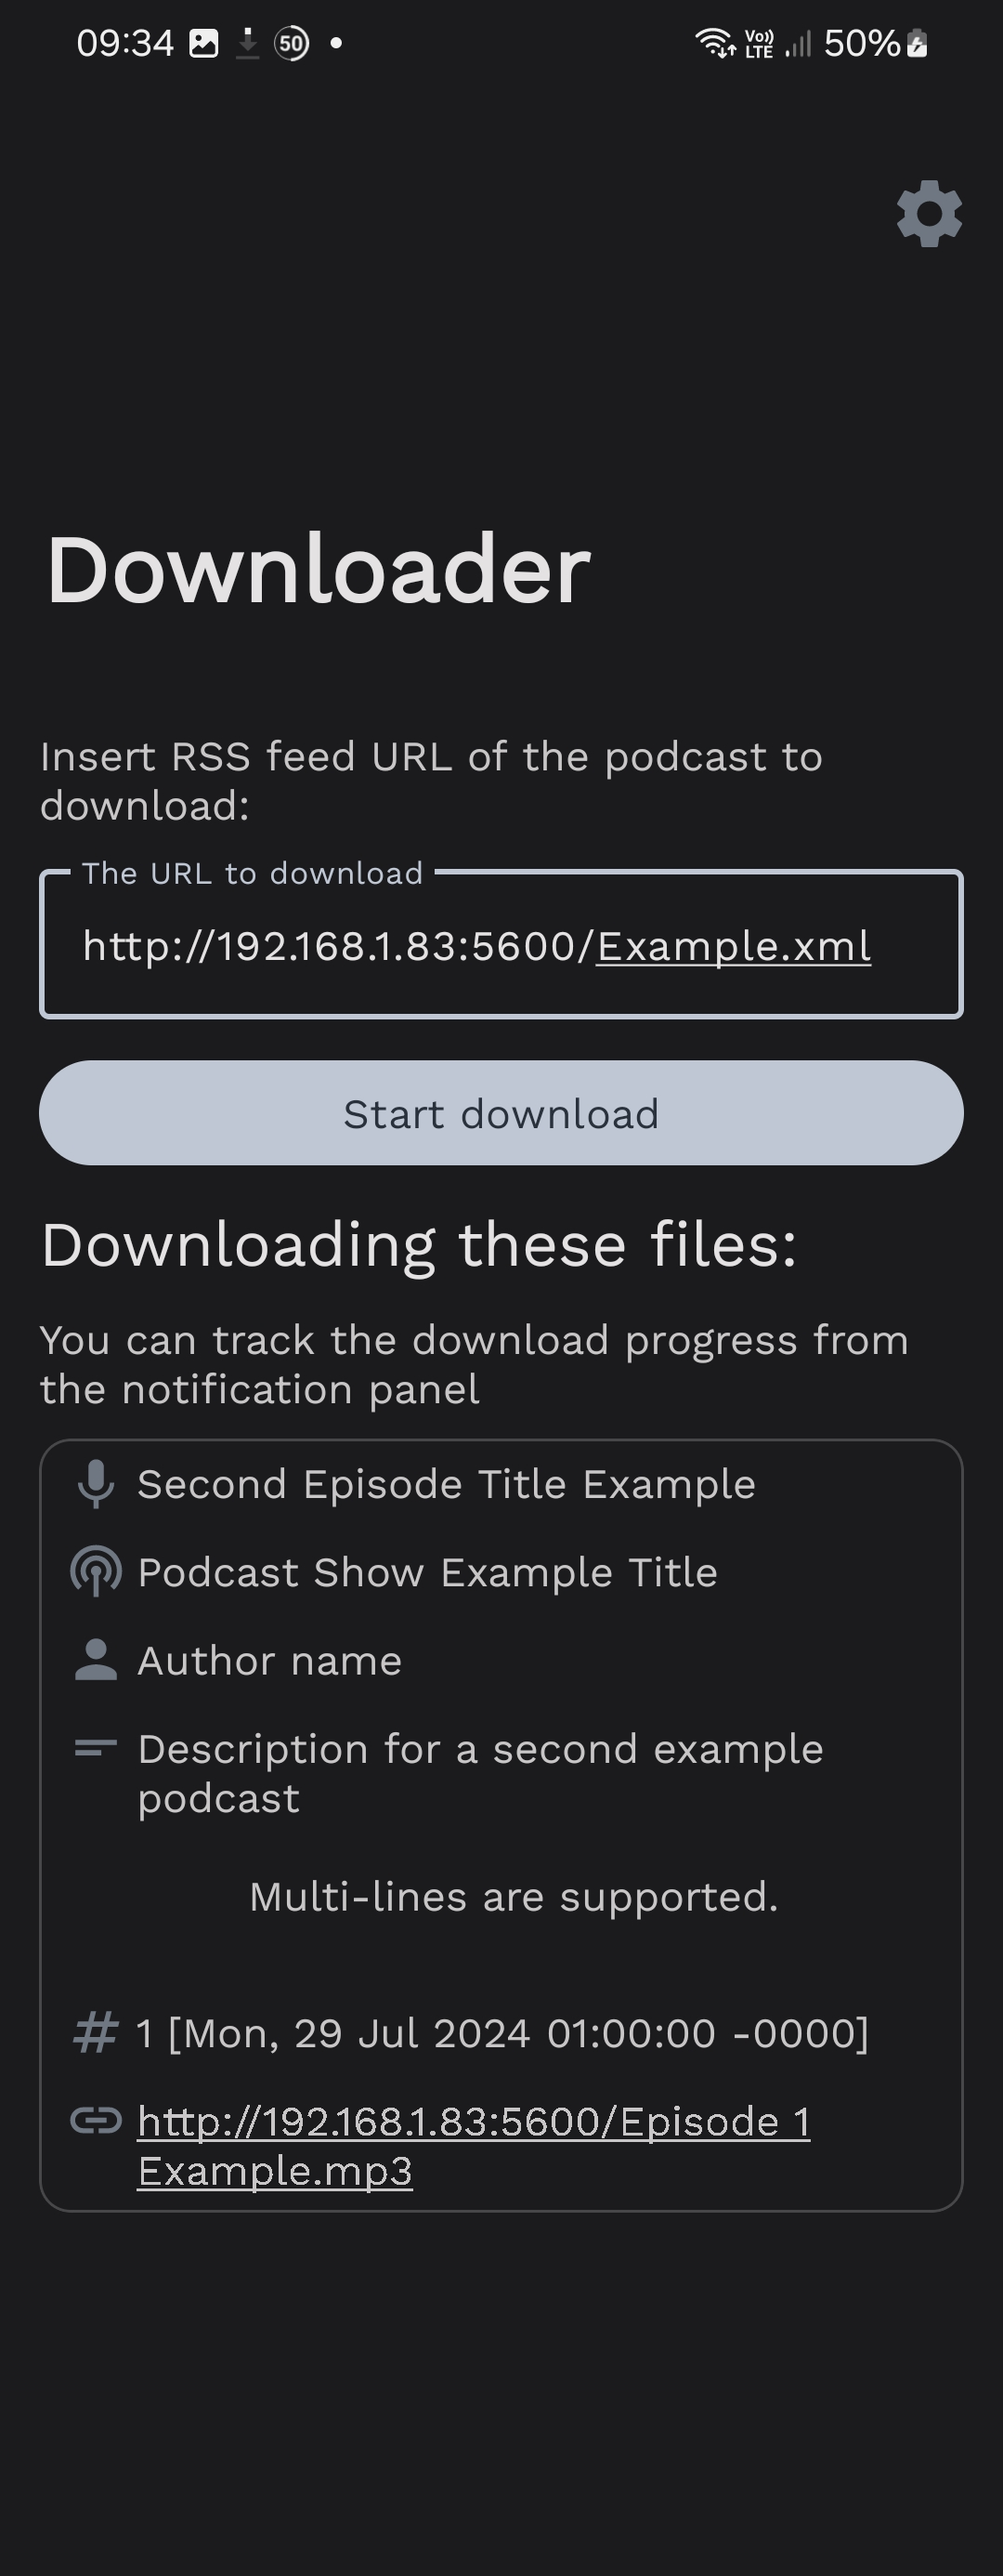
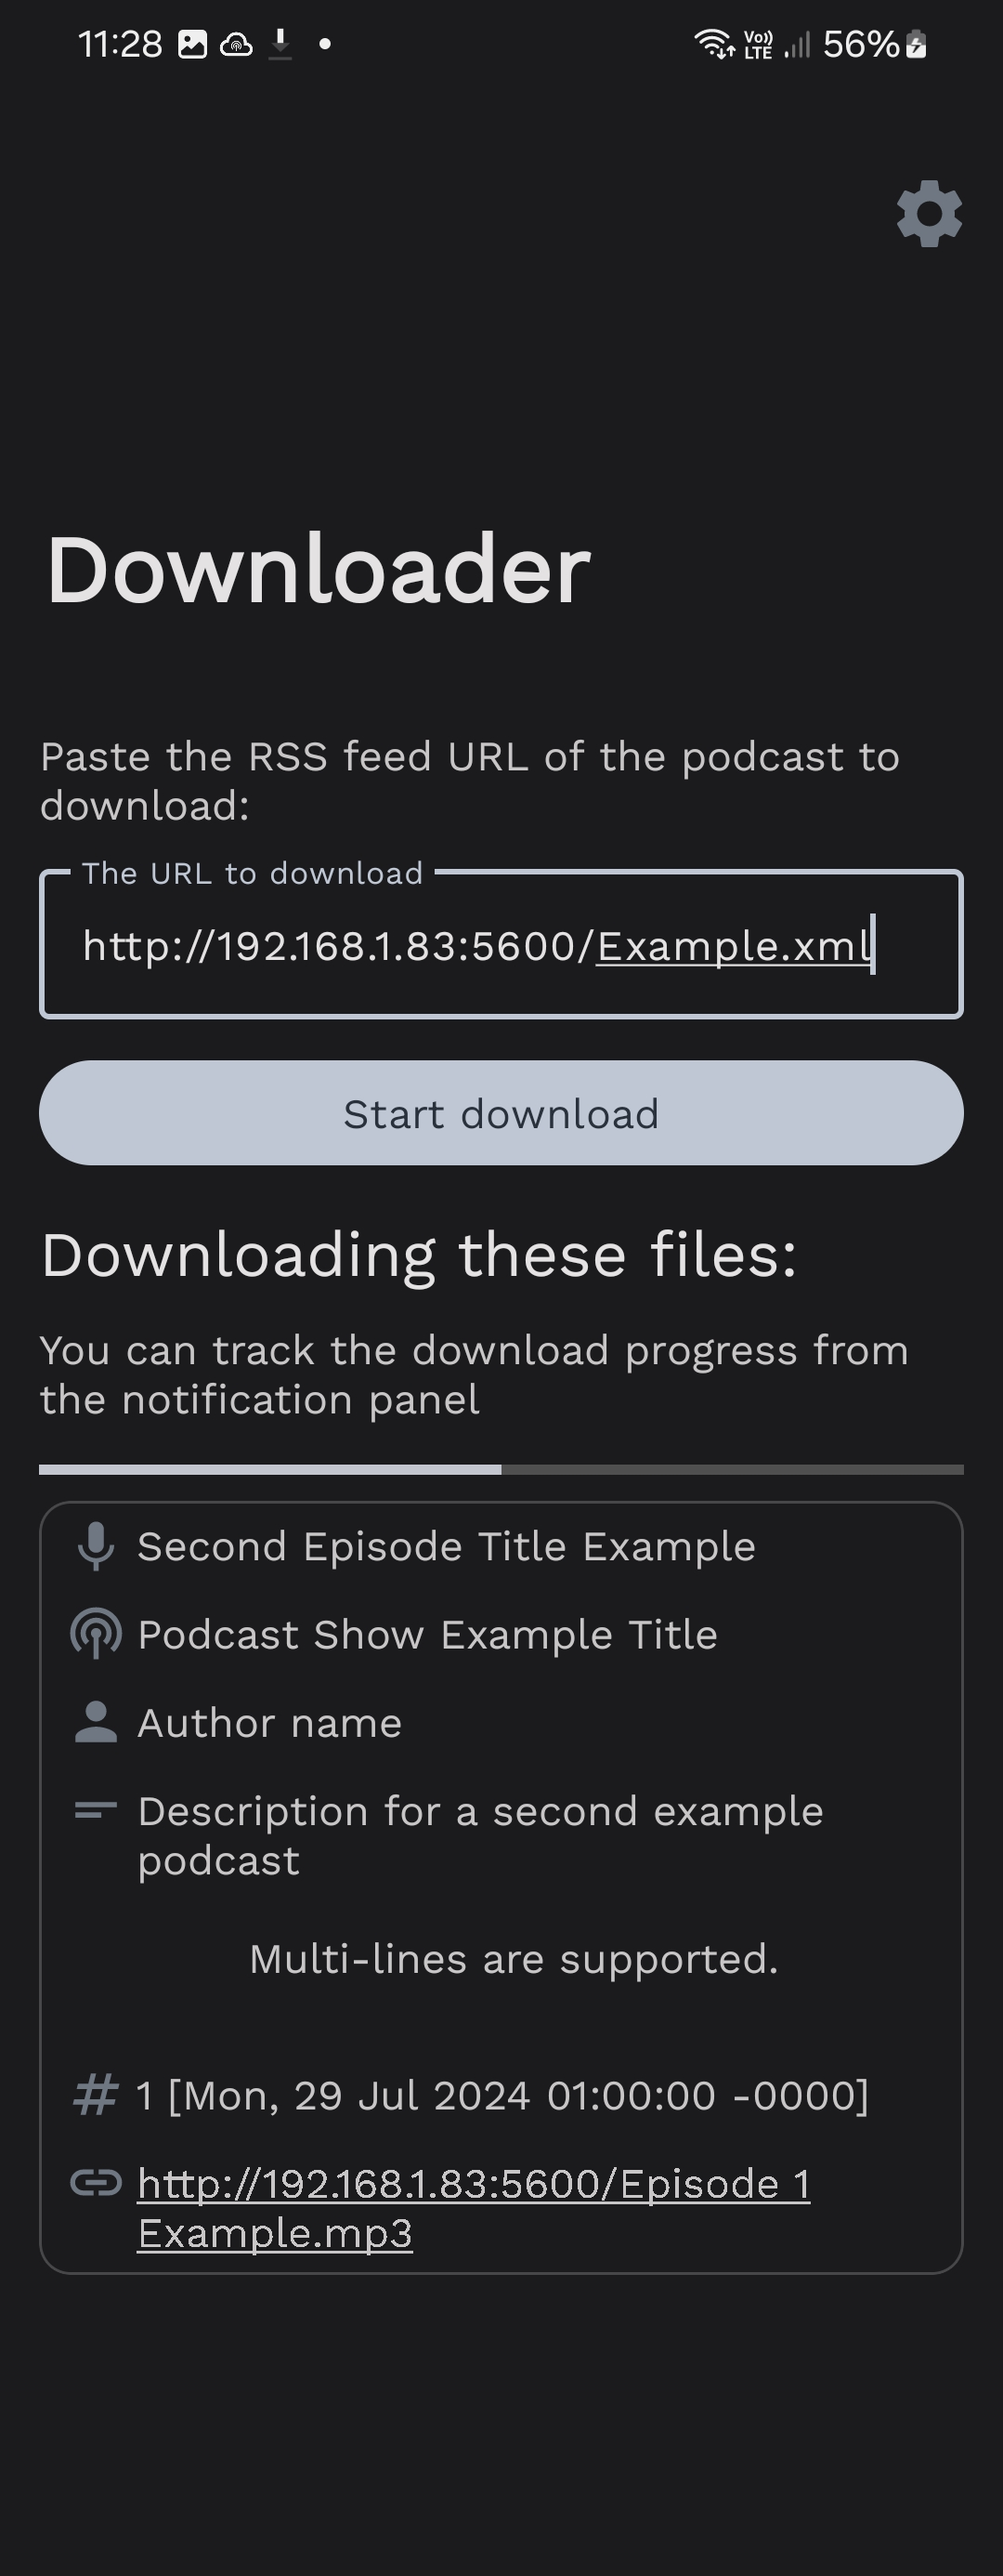
Download progress bar, save downloaded XML & Bug Fixes
- Download progress bar: a progress bar that shows the number of downloads done is now added in the downloader UI
- Save downloaded XML: it's now possible to save in the "PodcastDownloader" directory the fetched XML from the source
- Bug fixes:
  * Fixed a bug that caused the app to crash if language was changed
  * Fixed a bug that caused the app to crash if it wasn't possible to start a Foreground Service

diff --git a/app/src/main/java/dinoosauro/podcastdownloader/MainActivity.java b/app/src/main/java/dinoosauro/podcastdownloader/MainActivity.java
@@ -38,6 +38,7 @@ import com.google.android.material.dialog.MaterialAlertDialogBuilder;
 import com.google.android.material.snackbar.BaseTransientBottomBar;
 import com.google.android.material.snackbar.Snackbar;
 import com.google.android.material.textfield.TextInputEditText;
+import com.google.gson.Gson;
 import com.mpatric.mp3agic.ID3v2;
 import com.mpatric.mp3agic.Mp3File;
 
@@ -49,16 +50,23 @@ import org.w3c.dom.NodeList;
 import org.xml.sax.SAXException;
 
 import java.io.File;
+import java.io.FileOutputStream;
 import java.io.IOException;
+import java.io.StringWriter;
 import java.net.MalformedURLException;
 import java.net.URLDecoder;
 import java.util.ArrayList;
+import java.util.Date;
 import java.util.List;
 import java.util.Map;
 
 import javax.xml.parsers.DocumentBuilder;
 import javax.xml.parsers.DocumentBuilderFactory;
 import javax.xml.parsers.ParserConfigurationException;
+import javax.xml.transform.Transformer;
+import javax.xml.transform.TransformerFactory;
+import javax.xml.transform.dom.DOMSource;
+import javax.xml.transform.stream.StreamResult;
 
 import dinoosauro.podcastdownloader.PodcastClasses.GetAlbumArt;
 import dinoosauro.podcastdownloader.PodcastClasses.PodcastDownloadInformation;
@@ -67,6 +75,7 @@ import dinoosauro.podcastdownloader.PodcastClasses.ShowItems;
 import dinoosauro.podcastdownloader.UIHelper.CheckUpdates;
 import dinoosauro.podcastdownloader.UIHelper.ColorMenuIcons;
 import dinoosauro.podcastdownloader.UIHelper.DownloadUIManager;
+import dinoosauro.podcastdownloader.UIHelper.PodcastProgress;
 
 public class MainActivity extends AppCompatActivity {
     /**
@@ -111,6 +120,7 @@ public class MainActivity extends AppCompatActivity {
         CollapsingToolbarLayout collapsingToolbar = findViewById(R.id.collapsing_toolbar);
         collapsingToolbar.setTitle(getResources().getString(R.string.downloader));
         DownloadUIManager.setLinearLayout(findViewById(R.id.downloadItemsContainer)); // Set that the default LinearLayout where the metadata information cards will be appended is the one in MainActivity
+        PodcastProgress.setProgressBar(findViewById(R.id.progressBar)); // Set what progress bar should be used when an episode is added in the queue (or has finished downloading)
         if (Build.VERSION.SDK_INT <= 28) {
             ActivityCompat.requestPermissions(this,
                     new String[]{Manifest.permission.WRITE_EXTERNAL_STORAGE}, 0);
@@ -144,9 +154,29 @@ public class MainActivity extends AppCompatActivity {
                     DocumentBuilderFactory factory = DocumentBuilderFactory.newInstance();
                     DocumentBuilder builder = factory.newDocumentBuilder();
                     Document document = builder.parse(finalUrl);
+                    SharedPreferences preferences = getSharedPreferences(getPackageName(), Context.MODE_PRIVATE);
+                    if (preferences.getBoolean("WriteOutputXML", true)) {
+                        try {
+                            // Create folder and file
+                            File folder = new File(Environment.getExternalStoragePublicDirectory(Environment.DIRECTORY_DOWNLOADS), "PodcastDownloader");
+                            folder.mkdir();
+                            String getPodcastTitle = nullPlaceholder(document.getElementsByTagName("title").item(0));
+                            File xmlFile = new File(folder, PodcastDownloader.DownloadQueue.nameSanitizer(getPodcastTitle != null ? getPodcastTitle : finalUrl) + " [" + PodcastDownloader.DownloadQueue.nameSanitizer((new Date()).toString()) + "].xml");
+                            xmlFile.createNewFile();
+                            FileOutputStream fos = new FileOutputStream(xmlFile);
+                            // Convert the Document to a String using the TransformerFactory. This might be rewritten later, since it would be more convenient to directly fetch the XML as a string and write it.
+                            TransformerFactory transformerFactory = TransformerFactory.newInstance();
+                            Transformer transformer = transformerFactory.newTransformer();
+                            StringWriter stringWriter = new StringWriter();
+                            transformer.transform(new DOMSource(document), new StreamResult(stringWriter));
+                            fos.write(stringWriter.toString().getBytes());
+                            fos.close();
+                        } catch (Exception ex) {
+                            Snackbar.make(view, R.string.failed_xml_writing, BaseTransientBottomBar.LENGTH_LONG).show();
+                        }
+                    }
                     document.getDocumentElement().normalize();
                     NodeList items = document.getElementsByTagName("item");
-                    SharedPreferences preferences = getSharedPreferences(getPackageName(), Context.MODE_PRIVATE);
                     boolean shouldUseSuggestedTrack = preferences.getBoolean("UseSuggestedTrack", true); // If false, the suggested track from the RSS feed will be ignored
                     int trackFallbackType = preferences.getInt("SuggestedTrackFallback", 0); // What the application should do if there isn't a suggested track from the RSS feed
                     int trackFallbackStartFrom = preferences.getInt("SuggestedTrackStartFrom", 1); // From what number the numeration should tart
@@ -215,6 +245,10 @@ public class MainActivity extends AppCompatActivity {
         if (Build.VERSION.SDK_INT >= Build.VERSION_CODES.TIRAMISU) registerReceiver(receiver, new IntentFilter(DownloadManager.ACTION_DOWNLOAD_COMPLETE), Context.RECEIVER_EXPORTED); else registerReceiver(receiver, new IntentFilter(DownloadManager.ACTION_DOWNLOAD_COMPLETE));
         // Get if the user has shared an URL with the application, and start the RSS fetching
         for (Map.Entry<Long, PodcastDownloadInformation> item : PodcastDownloader.DownloadQueue.currentOperations.entrySet()) DownloadUIManager.addPodcastConversion(item.getValue(), item.getKey()); // Restore the metadata cards of the currently downloaded items. This might happen if the user changes theme.
+        if (PodcastDownloader.DownloadQueue.currentOperations.size() > 0) {
+            findViewById(R.id.downloadItemsContainer).setVisibility(View.VISIBLE); // Make the container visible if there are new elements
+            ((ProgressBar) findViewById(R.id.progressBar)).setMax(PodcastDownloader.DownloadQueue.getInfoLength());
+        }
         CheckUpdates.checkAndDisplay(MainActivity.this); // Look if there are updates available
     }
     @Override
@@ -245,7 +279,7 @@ public class MainActivity extends AppCompatActivity {
                         // And start its download. *THIS MUST BE DONE IN THE MAIN THREAD*: otherwise, the Thread won't be the same which initialized the View, causing in an Exception
                         runOnUiThread(PodcastDownloader.DownloadQueue::startDownload);
                         String realPath = getRealPathFromURI(context, ((DownloadManager) context.getSystemService(Context.DOWNLOAD_SERVICE)).getUriForDownloadedFile(downloadId));
-                        if (realPath == null) {
+                        if (realPath == null && currentPodcastInformation != null) {
                             File file = new File(Environment.getExternalStoragePublicDirectory(Environment.DIRECTORY_DOWNLOADS), currentPodcastInformation.downloadPath);
                             if (file.exists()) realPath = file.getAbsolutePath();
                         }
@@ -285,7 +319,6 @@ public class MainActivity extends AppCompatActivity {
                                     metadataFile.renameTo(file); // And move the metadata file to the location
                                     MediaScannerConnection.scanFile(MainActivity.this, new String[]{file.getAbsolutePath()}, new String[]{"audio/mpeg"}, null); // Scan the new file
                                 } catch (Exception e) {
-                                    e.printStackTrace();
                                     runOnUiThread(() -> {
                                         Snackbar.make(findViewById(R.id.downloadItemsContainer), getResources().getString(R.string.failed_metadata_add) + " " + currentPodcastInformation.items.get(0).title, BaseTransientBottomBar.LENGTH_LONG).show();
                                     });
@@ -315,11 +348,18 @@ public class MainActivity extends AppCompatActivity {
                                     Thread.sleep(500);
                                     runOnUiThread(() -> {
                                         PodcastDownloader.DownloadQueue.disableServiceIfNecessary(); // Check if the Foreground Service should be disabled (and disable it if necessary)
-                                        for (ViewGroup view : destinationLayout) ((ViewGroup) view.getParent()).removeView(view);
+                                        for (ViewGroup view : destinationLayout) {
+                                            if (view == null) continue;
+                                            ViewGroup parentElement = ((ViewGroup) view.getParent());
+                                            if (parentElement != null) parentElement.removeView(view);
+                                        }
+                                        PodcastProgress.updateValue(1);
                                     });
                                 } catch (InterruptedException e) {
                                     Log.e("Failed removal", String.valueOf(downloadId));
                                 }
+                            } else {
+                                runOnUiThread(() -> PodcastProgress.updateValue(1));
                             }
 
                     }).start();

diff --git a/app/src/main/java/dinoosauro/podcastdownloader/PodcastDownloader.java b/app/src/main/java/dinoosauro/podcastdownloader/PodcastDownloader.java
@@ -25,6 +25,7 @@ import dinoosauro.podcastdownloader.PodcastClasses.PodcastInformation;
 import dinoosauro.podcastdownloader.PodcastClasses.ShowItems;
 import dinoosauro.podcastdownloader.UIHelper.DownloadUIManager;
 import dinoosauro.podcastdownloader.ForegroundService.ForegroundNotificationHelper;
+import dinoosauro.podcastdownloader.UIHelper.PodcastProgress;
 
 public class PodcastDownloader extends Application {
     @Override
@@ -93,11 +94,19 @@ public class PodcastDownloader extends Application {
         }
 
         /**
+         * Get the size of the remaining items to download
+         * @return an int, with the number of items that are in the queue.
+         */
+        public static int getInfoLength() {
+            return downloadPodcastInfoList.size();
+        }
+
+        /**
          * Sanitize the name so that it's valid on every OS
          * @param str the string to sanitize
          * @return the sanitized string
          */
-        private static String nameSanitizer(String str) {
+        public static String nameSanitizer(String str) {
             return str.replace("<", "‹").replace(">", "›").replace(":", "∶").replace("\"", "″").replace("/", "∕").replace("\\", "∖").replace("|", "¦").replace("?", "¿").replace("*", "");
         }
 
@@ -105,10 +114,14 @@ public class PodcastDownloader extends Application {
          * If no elements are in the queue, the Foreground service will be disabled.
          */
         public static void disableServiceIfNecessary() {
-            if (currentOperations.size() == 0 && downloadPodcastInfoList.size() == 0 && ForegroundNotificationHelper.isServiceRunning(appContext)) {
+            try {
+                if (currentOperations.size() == 0 && downloadPodcastInfoList.size() == 0 && ForegroundNotificationHelper.isServiceRunning(appContext)) {
                 Intent stopIntent = new Intent(appContext, ForegroundService.class);
                 stopIntent.setAction("STOP_FOREGROUND_SERVICE");
                 appContext.startService(stopIntent);
+            }
+            } catch (Exception ex) {
+                Toast.makeText(appContext, "Failed to stop Foreground Service", Toast.LENGTH_LONG).show();
             }
         }
 
@@ -119,9 +132,13 @@ public class PodcastDownloader extends Application {
         public static void startDownload() {
             PodcastInformation podcastInformation = shift();
             if (podcastInformation != null) {
-                if (!ForegroundNotificationHelper.isServiceRunning(appContext)) {
-                    Intent serviceIntent = new Intent(appContext, ForegroundService.class);
-                    appContext.startService(serviceIntent);
+                try {
+                    if (!ForegroundNotificationHelper.isServiceRunning(appContext)) {
+                        Intent serviceIntent = new Intent(appContext, ForegroundService.class);
+                        appContext.startService(serviceIntent);
+                    }
+                } catch (Exception ex) {
+                    Toast.makeText(appContext, "Failed to start Foreground Service. Download experience might be unreliable.", Toast.LENGTH_LONG).show();
                 }
                 ShowItems currentPodcastInformation = podcastInformation.items.get(0);
                 DownloadManager.Request request = new DownloadManager.Request(Uri.parse(currentPodcastInformation.url));
@@ -145,7 +162,6 @@ public class PodcastDownloader extends Application {
                     fos.close();
                 } catch (IOException e) {
                     Toast.makeText(appContext, appContext.getResources().getString(R.string.failed_json_creation) + " " + currentPodcastInformation.title, Toast.LENGTH_LONG).show();
-                    e.printStackTrace();
                 }
                 String subPath = "PodcastDownloader/" + nameSanitizer(podcastInformation.title) + "/" + nameSanitizer(currentPodcastInformation.title + fileExtension);
                 request.setDestinationInExternalPublicDir(Environment.DIRECTORY_DOWNLOADS, subPath);
@@ -162,6 +178,7 @@ public class PodcastDownloader extends Application {
          */
         public static void enqueueItem(PodcastInformation podcastInformation) {
             downloadPodcastInfoList.add(podcastInformation);
+            PodcastProgress.updateMaximum(1);
             if (currentOperations.size() < appContext.getSharedPreferences(appContext.getPackageName(), Context.MODE_PRIVATE).getInt("ConcurrentDownloads", 3)) startDownload();
         }
     }

diff --git a/app/src/main/java/dinoosauro/podcastdownloader/UIHelper/PodcastProgress.java b/app/src/main/java/dinoosauro/podcastdownloader/UIHelper/PodcastProgress.java
@@ -1,0 +1,35 @@
+package dinoosauro.podcastdownloader.UIHelper;
+
+import android.os.Build;
+import android.widget.ProgressBar;
+
+/**
+ * Update the Progress Bar for the download progress
+ */
+public class PodcastProgress {
+    private static ProgressBar progressBar;
+
+    /**
+     * Set the ProgressBar that will track the downloaded podcasts
+     * @param progress the ProgressBar
+     */
+    public static void setProgressBar(ProgressBar progress) {
+        progressBar = progress;
+    }
+
+    /**
+     * Update the maximum of the ProgressBar
+     * @param addItems the number to add to the current maximum
+     */
+    public static void updateMaximum(int addItems) {
+        progressBar.setMax(progressBar.getMax() + addItems);
+    }
+
+    /**
+     * Update the value of the ProgressBar
+     * @param addValue the value to add to the current value
+     */
+    public static void updateValue(int addValue) {
+        if (Build.VERSION.SDK_INT >= Build.VERSION_CODES.N) progressBar.setProgress(progressBar.getProgress() + addValue, true); else progressBar.setProgress(progressBar.getProgress() + addValue);
+    }
+}

diff --git a/app/src/main/java/dinoosauro/podcastdownloader/Settings.java b/app/src/main/java/dinoosauro/podcastdownloader/Settings.java
@@ -70,6 +70,7 @@ public class Settings extends AppCompatActivity {
             put((View) findViewById(R.id.jpegQuality), new updateFields("JpegQuality", SettingsSave.SAVE_AS_INT, "80"));
             put((View) findViewById(R.id.mp3Metadata), new updateFields("MP3Metadata", SettingsSave.SAVE_AS_BOOLEAN, "1"));
             put((View) findViewById(R.id.htmlParsing), new updateFields("DecodeHTML", SettingsSave.SAVE_AS_BOOLEAN, "1"));
+            put((View) findViewById(R.id.saveXmlFile), new updateFields("WriteOutputXML", SettingsSave.SAVE_AS_BOOLEAN, "1"));
         }};
         SharedPreferences preferences = this.getSharedPreferences(getPackageName(), Context.MODE_PRIVATE);
         for (Map.Entry<View, updateFields> entry : updateValue.entrySet()) {

diff --git a/app/src/main/java/dinoosauro/podcastdownloader/ForegroundService/ForegroundNotificationHelper.java b/app/src/main/java/dinoosauro/podcastdownloader/ForegroundService/ForegroundNotificationHelper.java
@@ -49,6 +49,7 @@ public class ForegroundNotificationHelper {
         PendingIntent pendingIntent = PendingIntent.getActivity(context, 0, notificationIntent, PendingIntent.FLAG_IMMUTABLE);
 
         return new NotificationCompat.Builder(context, CHANNEL_ID)
+                .setSmallIcon(R.drawable.monochrome_icon)
                 .setContentTitle(context.getResources().getString(R.string.downloading_podcasts))
                 .setContentText(context.getResources().getString(R.string.downloading_podcasts_desc))
                 .setContentIntent(pendingIntent)

diff --git a/app/src/main/java/dinoosauro/podcastdownloader/UIHelper/DownloadUIManager.java b/app/src/main/java/dinoosauro/podcastdownloader/UIHelper/DownloadUIManager.java
@@ -122,6 +122,7 @@ public class DownloadUIManager {
      * @param operationId the long that identifies this download
      */
     public static void addPodcastConversion(PodcastInformation downloader, long operationId) {
+        linearLayout.setVisibility(View.VISIBLE); // On the first conversion, the LinearLayout visibility will be set to GONE
         addPodcastConversion(downloader, operationId, linearLayout);
     }
 }

diff --git a/app/src/main/java/dinoosauro/podcastdownloader/UIHelper/CheckUpdates.java b/app/src/main/java/dinoosauro/podcastdownloader/UIHelper/CheckUpdates.java
@@ -22,7 +22,7 @@ public class CheckUpdates {
     /**
      * The current version of PodcastDownloader
      */
-    public static final String VERSION_NUMBER = "1.0.0";
+    public static final String VERSION_NUMBER = "1.0.1";
     /**
      * The latest version, fetched from GitHub
      */
